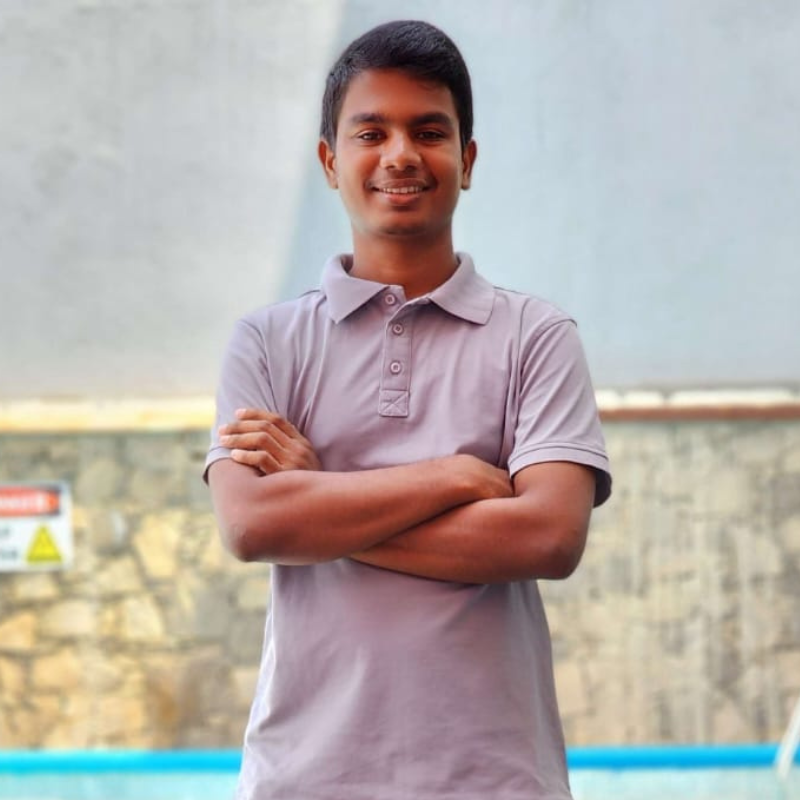
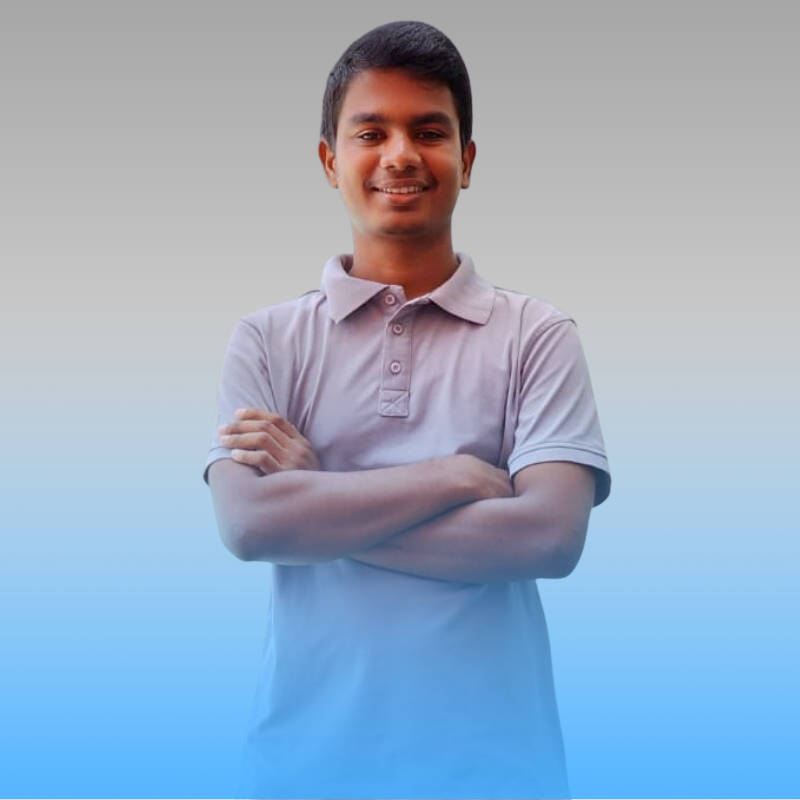
ShiftSL

diff --git a/index.html b/index.html
@@ -251,7 +251,7 @@
 
           <div class="col-lg-4 col-md-6" data-aos="fade-up" data-aos-delay="200">
             <div class="member">
-              <div class="pic"><img src="assets/img/team/team-2.jpg" class="img-fluid" alt=""></div>
+              <div class="pic"><img src="assets/img/team/team-2.png" class="img-fluid" alt=""></div>
               <div class="member-info">
                 <h4>Dasun Kanishka</h4>
                 <span>Mobile Developer</span>
@@ -264,7 +264,7 @@
 
           <div class="col-lg-4 col-md-6" data-aos="fade-up" data-aos-delay="100">
             <div class="member">
-              <div class="pic"><img src="assets/img/team/team-1.jpg" class="img-fluid" alt=""></div>
+              <div class="pic"><img src="assets/img/team/team-1.png" class="img-fluid" alt=""></div>
               <div class="member-info">
                 <h4>Nilasi Jayathilake</h4>
                 <span>Mobile Developer / Project Manager</span>
@@ -277,7 +277,7 @@
 
           <div class="col-lg-4 col-md-6" data-aos="fade-up" data-aos-delay="300">
             <div class="member">
-              <div class="pic"><img src="assets/img/team/team-3.jpg" class="img-fluid" alt=""></div>
+              <div class="pic"><img src="assets/img/team/team-3.png" class="img-fluid" alt=""></div>
               <div class="member-info">
                 <h4>Punjitha Bandara</h4>
                 <span>Back End Developer</span>
@@ -303,7 +303,7 @@
 
           <div class="col-lg-4 col-md-6" data-aos="fade-up" data-aos-delay="100">
             <div class="member">
-              <div class="pic"><img src="assets/img/team/team-5.jpg" class="img-fluid" alt=""></div>
+              <div class="pic"><img src="assets/img/team/team-5.png" class="img-fluid" alt=""></div>
               <div class="member-info">
                 <h4>Hasindie Dissanayake</h4>
                 <span>Front End Developer</span>
@@ -316,7 +316,7 @@
 
           <div class="col-lg-4 col-md-6" data-aos="fade-up" data-aos-delay="100">
             <div class="member">
-              <div class="pic"><img src="assets/img/team/team-6.jpg" class="img-fluid" alt=""></div>
+              <div class="pic"><img src="assets/img/team/team-6.png" class="img-fluid" alt=""></div>
               <div class="member-info">
                 <h4>Malindu Bandara</h4>
                 <span>Front End Developer</span>
